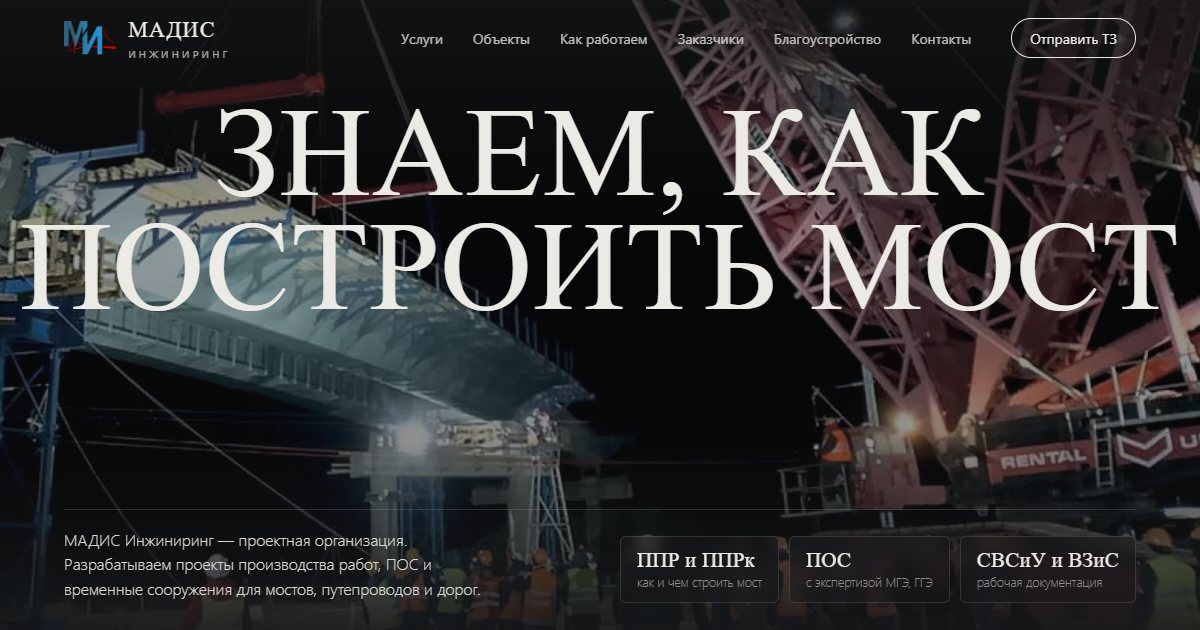
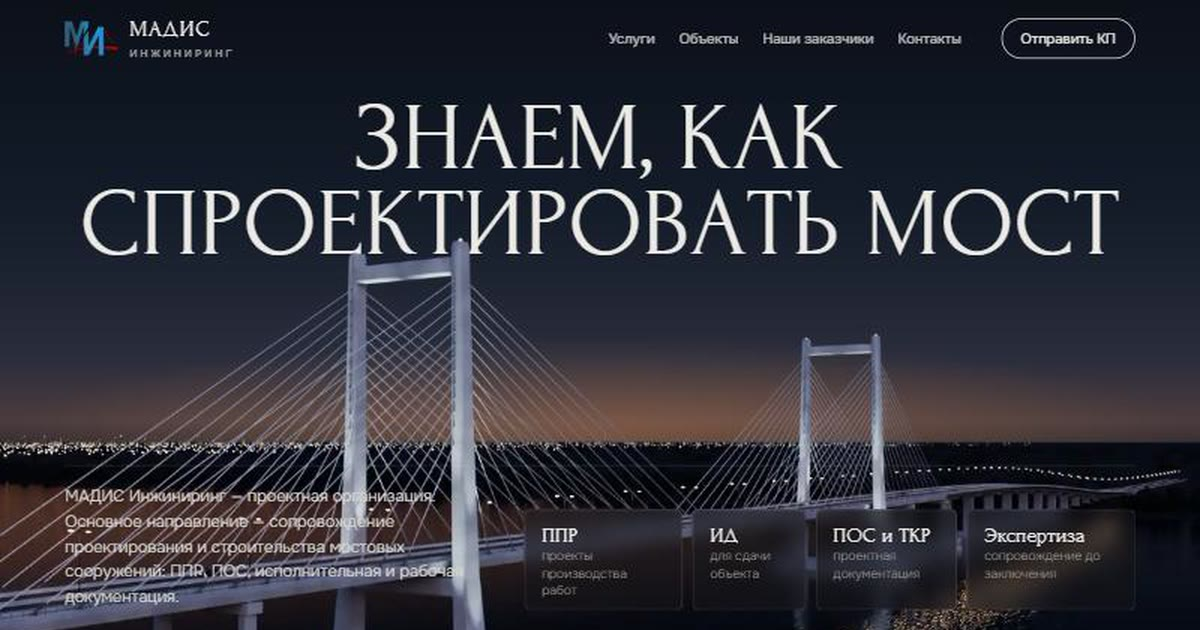
Fill the object grids, placeholder customer, CTA "Отправить КП", new og image
- Three objects moved from "Ещё в портфолио" to cards with drawings:
  SVH flyovers A and B, Kutuzovsky backup road, Solntsevo-Butovo (grids are 9/6/6)
- Customers: 12th tile "Ещё один" until the name is known
- Header and mobile bar button: "Отправить КП"
- og.jpg re-shot with the new headline

diff --git a/index.html b/index.html
@@ -388,6 +388,7 @@ section{position:relative}
 .logos li{display:flex;flex-direction:column;gap:10px}
 .lg{position:relative;display:block;aspect-ratio:2/1;border-radius:var(--r);overflow:hidden}
 .lg img{position:absolute;left:10%;top:12%;width:80%;height:76%;object-fit:contain}
+.lg b{position:absolute;inset:0;display:grid;place-items:center;font:400 clamp(18px,1.8vw,26px)/1 var(--serif);text-transform:uppercase;color:var(--mut)}
 .logos small{font-size:13px;color:var(--mut)}
 .rzd{margin-top:48px;padding-top:20px;border-top:1px solid var(--line);font-size:16px;max-width:900px}
 .lic{margin-top:110px;display:grid;grid-template-columns:repeat(12,1fr);gap:24px}
@@ -512,7 +513,7 @@ fieldset.fld{border:0}
       <a href="#contacts">Контакты</a>
     </nav>
     <a class="hdr-tel" href="tel:+74957900992">+7 (495) 790-09-92</a>
-    <a class="pill" href="#contacts">Запросить КП</a>
+    <a class="pill" href="#contacts">Отправить КП</a>
   </div>
   <i class="hdr-prog" id="hdrProg"></i>
 </header>
@@ -756,12 +757,9 @@ fieldset.fld{border:0}
     <div class="more-list">
       <h3>Ещё в портфолио</h3>
       <ul>
-        <li><b>Северо-Восточная хорда, эстакады А и Б</b><span>ППР, опускание пролётного строения на опорные части, СВСиУ</span></li>
-        <li><b>Дублёр Кутузовского проспекта</b><span>проекты производства работ</span></li>
         <li><b>М-5 «Урал», мост через Москву-реку</b><span>надвижка пролётного строения, строповка, демонтаж СВСиУ, план работ на высоте</span></li>
         <li><b>Мост через Суру</b><span>ППР на надвижку пролётного строения</span></li>
         <li><b>«Арена», Новосибирск</b><span>комплексный ППР и СВСиУ</span></li>
-        <li><b>Солнцево — Бутово</b><span>проект производства работ</span></li>
       </ul>
     </div>
     </div>
@@ -828,7 +826,7 @@ fieldset.fld{border:0}
       <h2 id="clH" class="split">Наши заказчики</h2>
       <p>Компании, для которых мы разрабатывали проекты производства работ, ПОС и рабочую документацию.</p>
     </div>
-    <ul class="logos"><li><span class="lg" style="background:#dadbde"><img src="img/logos/nps.webp" alt="АО «Дороги и мосты»" loading="lazy"></span><small>АО «Дороги и мосты»</small></li><li><span class="lg" style="background:#dcdee1"><img src="img/logos/mostdorstroy.webp" alt="ООО «Мостдорстрой»" loading="lazy"></span><small>ООО «Мостдорстрой»</small></li><li><span class="lg" style="background:#ebe0d7"><img src="img/logos/stroyproekt.webp" alt="АО «Институт «Стройпроект»" loading="lazy"></span><small>АО «Институт «Стройпроект»</small></li><li><span class="lg" style="background:#d1d4d7"><img src="img/logos/misk.webp" alt="АО «МИСК»" loading="lazy"></span><small>АО «МИСК»</small></li><li><span class="lg" style="background:#e2e1de"><img src="img/logos/transproekt.webp" alt="ООО «Транспроект»" loading="lazy"></span><small>ООО «Транспроект»</small></li><li><span class="lg" style="background:#d8dbde"><img src="img/logos/icmit.webp" alt="ООО «ИЦ «МиТ»" loading="lazy"></span><small>ООО «ИЦ «МиТ»</small></li><li><span class="lg" style="background:#dddedf"><img src="img/logos/almacor.webp" alt="ООО «АльмакорГруп»" loading="lazy"></span><small>ООО «АльмакорГруп»</small></li><li><span class="lg" style="background:#d2d4d8"><img src="img/logos/geoproekt.webp" alt="ООО «Гео-Проект»" loading="lazy"></span><small>ООО «Гео-Проект»</small></li><li><span class="lg" style="background:#d3d5d8"><img src="img/logos/lider.webp" alt="ООО ПК «ЛИДЕРГРУПП»" loading="lazy"></span><small>ООО ПК «ЛИДЕРГРУПП»</small></li><li><span class="lg" style="background:#d8dade"><img src="img/logos/dmt.webp" alt="DMT Групп" loading="lazy"></span><small>DMT Групп</small></li><li><span class="lg" style="background:#d4d5d9"><img src="img/logos/magistral.webp" alt="ГК «Магистраль»" loading="lazy"></span><small>ГК «Магистраль»</small></li></ul>
+    <ul class="logos"><li><span class="lg" style="background:#dadbde"><img src="img/logos/nps.webp" alt="АО «Дороги и мосты»" loading="lazy"></span><small>АО «Дороги и мосты»</small></li><li><span class="lg" style="background:#dcdee1"><img src="img/logos/mostdorstroy.webp" alt="ООО «Мостдорстрой»" loading="lazy"></span><small>ООО «Мостдорстрой»</small></li><li><span class="lg" style="background:#ebe0d7"><img src="img/logos/stroyproekt.webp" alt="АО «Институт «Стройпроект»" loading="lazy"></span><small>АО «Институт «Стройпроект»</small></li><li><span class="lg" style="background:#d1d4d7"><img src="img/logos/misk.webp" alt="АО «МИСК»" loading="lazy"></span><small>АО «МИСК»</small></li><li><span class="lg" style="background:#e2e1de"><img src="img/logos/transproekt.webp" alt="ООО «Транспроект»" loading="lazy"></span><small>ООО «Транспроект»</small></li><li><span class="lg" style="background:#d8dbde"><img src="img/logos/icmit.webp" alt="ООО «ИЦ «МиТ»" loading="lazy"></span><small>ООО «ИЦ «МиТ»</small></li><li><span class="lg" style="background:#dddedf"><img src="img/logos/almacor.webp" alt="ООО «АльмакорГруп»" loading="lazy"></span><small>ООО «АльмакорГруп»</small></li><li><span class="lg" style="background:#d2d4d8"><img src="img/logos/geoproekt.webp" alt="ООО «Гео-Проект»" loading="lazy"></span><small>ООО «Гео-Проект»</small></li><li><span class="lg" style="background:#d3d5d8"><img src="img/logos/lider.webp" alt="ООО ПК «ЛИДЕРГРУПП»" loading="lazy"></span><small>ООО ПК «ЛИДЕРГРУПП»</small></li><li><span class="lg" style="background:#d8dade"><img src="img/logos/dmt.webp" alt="DMT Групп" loading="lazy"></span><small>DMT Групп</small></li><li><span class="lg" style="background:#d4d5d9"><img src="img/logos/magistral.webp" alt="ГК «Магистраль»" loading="lazy"></span><small>ГК «Магистраль»</small></li><li><span class="lg" style="background:#dadbde"><b>Ещё один</b></span><small>&nbsp;</small></li></ul>
     <p class="rzd">Работаем на объектах инфраструктуры железных дорог — ВСЖМ Санкт-Петербург — Москва, северный обход Перми (5-й этап) — и согласовываем ППР в полосе отвода железной дороги.</p>
     <div class="lic">
       <h3>Допуски</h3>
@@ -899,7 +897,7 @@ fieldset.fld{border:0}
 </footer>
 
 <div class="mbar" aria-label="Связаться">
-  <a href="#contacts">Запросить КП</a>
+  <a href="#contacts">Отправить КП</a>
   <a href="tel:+74957900992">Позвонить</a>
   <a href="mailto:post@madis.pro">Написать</a>
 </div>
@@ -959,10 +957,13 @@ const OBJ=[
  {id:'lub',g:'put',t:'Путепровод в Люберцах',pl:'Московская область · проезд № 4037',k:['ПОС','BIM'],tx:'ПОС и ТКР на путепровод с сопровождением в Мособлгосэкспертизе, ЦИММ-модель объекта.',im:['lub']},
  {id:'tzhk',g:'put',t:'Путепроводы ООО «ТЖК»',pl:'Объекты железнодорожной инфраструктуры',k:['ПОС'],tx:'ПОС и ТКР на путепроводы с сопровождением в Главгосэкспертизе.',im:['tzhk'],d:1},
  {id:'m04',g:'put',t:'Путепроводы на М-04',pl:'Знаменка — Луганск — Изварино',k:['СВСиУ'],tx:'Рабочая документация раздела «ВЗиС» для капремонта путепроводов.',im:['m04'],d:1,vz:1},
+ {id:'svh',g:'put',t:'Северо-Восточная хорда, эстакады А и Б',pl:'Москва',k:['ППР','СВСиУ'],tx:'ППР на монтаж пролётных строений и опускание их на опорные части, СВСиУ для сооружения пролётных строений.',im:['svh'],d:1},
  {id:'tpu',g:'dor',t:'Улично-дорожная сеть ТПУ «Сити»',pl:'Москва',k:['ПОС','BIM'],tx:'ПОС для транспортного обслуживания ТПУ «Сити» с сопровождением в Мосгосэкспертизе, ЦИММ-модель.',im:['tpu']},
  {id:'yuvh',g:'dor',t:'Юго-Восточная хорда',pl:'Москва · от Павелецкого направления МЖД до МКАД',k:['ПОС','СВСиУ'],tx:'Улично-дорожная сеть с искусственными сооружениями и переустройством коммуникаций. Разделы ПОС, ТКР, СВСиУ с сопровождением в Мосгосэкспертизе.',im:['yuvh'],d:1},
  {id:'m4',g:'dor',t:'М-4 «Дон» и Р-217 «Кавказ»',pl:'Автомобильные дороги',k:['ПОС','СВСиУ'],tx:'Раздел ПОС, включая снос и СВСиУ.',im:['m4'],d:1},
  {id:'poch',g:'dor',t:'Террасный парк в Почаинском овраге',pl:'Нижний Новгород',k:['ПОС','СВСиУ'],tx:'ПОС и СВСиУ, проектная и рабочая документация, с сопровождением в региональной экспертизе.',im:['poch'],d:1},
+ {id:'kut',g:'dor',t:'Дублёр Кутузовского проспекта',pl:'Москва · от Молодогвардейской развязки до ММДЦ «Москва-Сити»',k:['ППР'],tx:'Проекты производства работ на сооружение опор: строительный генеральный план, шпунтовые ограждения котлованов, схемы строповки.',im:['kut'],d:1},
+ {id:'sol',g:'dor',t:'Солнцево — Бутово',pl:'Москва',k:['ППР'],tx:'Проект производства работ.',im:['sol'],d:1},
 ];
 const GROUPS=[['most','Мостовые сооружения'],['put','Путепроводы и развязки'],['dor','Объекты дорожной и городской инфраструктуры']];
 const tagLabel=(o)=>o.k.map(k=>k==='СВСиУ'&&o.vz?'ВЗиС':k);
